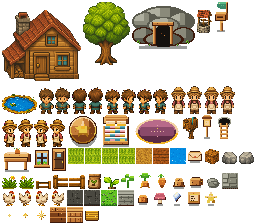
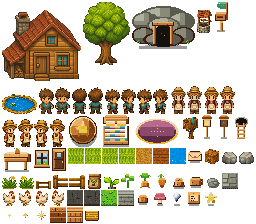
Make outdoor night darker and add path lanterns.

Changed region(s): [[0.8438, 0.5, 0.9688, 0.625]]

diff --git a/index.html b/index.html
@@ -328,12 +328,15 @@
     { at: 0.18, r: 255, g: 236, b: 210, a: 0.10 },
     { at: 0.28, r: 255, g: 255, b: 255, a: 0.00 },
     { at: 0.48, r: 255, g: 255, b: 255, a: 0.00 },
-    { at: 0.56, r: 255, g: 176, b: 72, a: 0.26 },
-    { at: 0.70, r: 220, g: 120, b: 64, a: 0.30 },
-    { at: 0.78, r: 88, g: 118, b: 186, a: 0.36 },
-    { at: 0.92, r: 72, g: 102, b: 176, a: 0.40 },
+    { at: 0.52, r: 255, g: 190, b: 96, a: 0.22 },
+    { at: 0.62, r: 240, g: 130, b: 64, a: 0.32 },
+    { at: 0.72, r: 160, g: 88, b: 90, a: 0.38 },
+    { at: 0.76, r: 48, g: 72, b: 160, a: 0.55 },
+    { at: 0.88, r: 32, g: 52, b: 140, a: 0.64 },
+    { at: 0.97, r: 40, g: 60, b: 132, a: 0.58 },
     { at: 1.00, r: 255, g: 214, b: 170, a: 0.20 }
   ];
+  var nightLayer = null;
   var found = { copper: false, mushroom: false, moonshard: false };
   var introSeen = false;
   var outroSeen = false;
@@ -667,7 +670,17 @@
       { kind: "weed", tx: 27, ty: 28 },
       { kind: "weed", tx: 40, ty: 32 },
       { kind: "weed", tx: 8, ty: 22 },
-      { kind: "weed", tx: 44, ty: 10 }
+      { kind: "weed", tx: 44, ty: 10 },
+      { kind: "lantern", tx: 13, ty: 31 },
+      { kind: "lantern", tx: 17, ty: 31 },
+      { kind: "lantern", tx: 15, ty: 33 },
+      { kind: "lantern", tx: 12, ty: 24 },
+      { kind: "lantern", tx: 15, ty: 20 },
+      { kind: "lantern", tx: 12, ty: 16 },
+      { kind: "lantern", tx: 18, ty: 8 },
+      { kind: "lantern", tx: 26, ty: 11 },
+      { kind: "lantern", tx: 32, ty: 8 },
+      { kind: "lantern", tx: 36, ty: 8 }
     ];
     return list.concat(scatterOverworldExtras(GROUND, list));
   }
@@ -2131,24 +2144,120 @@
   function currentTint() {
     var t = dayMs / DAY_MS;
     var tint = sampleTint(SKY_TINTS, t);
-    if (currentScene === "house" && t >= 0.72) {
-      return { r: 255, g: 200, b: 130, a: 0.24 };
+    if (currentScene === "house") {
+      if (t >= 0.72) return { r: 255, g: 200, b: 130, a: 0.24 };
+      if (t >= 0.56) return { r: 255, g: 196, b: 140, a: 0.16 };
+      return { r: 255, g: 236, b: 210, a: 0.04 };
     }
     if (currentScene === "mine") {
-      return { r: tint.r, g: tint.g, b: tint.b, a: tint.a * 0.45 };
+      return { r: 168, g: 152, b: 138, a: 0.22 };
     }
     return tint;
   }
 
+  function lanternGlowAmt() {
+    if (currentScene === "mine") return 0.55;
+    if (currentScene !== "overworld") return 0;
+    var t = dayMs / DAY_MS;
+    if (t < 0.62) return 0;
+    if (t < 0.75) return ((t - 0.62) / 0.13) * 0.55;
+    if (t < 0.97) return 1;
+    return Math.max(0, (1 - t) / 0.03);
+  }
+
+  function lanternIsLit() {
+    return lanternGlowAmt() > 0.12;
+  }
+
+  function getNightLayer() {
+    if (!nightLayer) {
+      nightLayer = document.createElement("canvas");
+      nightLayer.width = VIEW_W;
+      nightLayer.height = VIEW_H;
+    }
+    return nightLayer;
+  }
+
+  function forEachLantern(fn) {
+    var i, p;
+    for (i = 0; i < PROPS.length; i++) {
+      p = PROPS[i];
+      if (p.kind === "lantern") fn(p, i);
+    }
+  }
+
+  function drawLanternLights(g) {
+    var amt, i, p, sx, sy, flicker, rad, grd;
+    if (currentScene !== "overworld") return;
+    amt = lanternGlowAmt();
+    if (amt < 0.02) return;
+    g.save();
+    g.globalCompositeOperation = "lighter";
+    forEachLantern(function (p, i) {
+      sx = p.tx * TILE + 8 - camX;
+      sy = p.ty * TILE + 2 - camY;
+      if (sx < -48 || sy < -48 || sx > VIEW_W + 48 || sy > VIEW_H + 48) return;
+      flicker = 0.88 + Math.sin(tick / 140 + i * 1.7) * 0.12;
+      rad = 40 * amt * flicker;
+      grd = g.createRadialGradient(sx, sy, 2, sx, sy, rad);
+      grd.addColorStop(0, "rgba(255,210,110," + (0.42 * amt * flicker).toFixed(3) + ")");
+      grd.addColorStop(0.35, "rgba(240,160,60," + (0.18 * amt * flicker).toFixed(3) + ")");
+      grd.addColorStop(1, "rgba(80,40,20,0)");
+      g.fillStyle = grd;
+      g.beginPath();
+      g.arc(sx, sy, rad, 0, Math.PI * 2);
+      g.fill();
+    });
+    g.restore();
+  }
+
   function drawDayTint(g) {
     var tint = currentTint();
-    if (!tint || tint.a < 0.01) return;
+    var punch, layer, lg, amt, sx, sy, flicker, rad, grd;
+    punch = currentScene === "overworld" && lanternGlowAmt() > 0.02;
+    if (!tint || tint.a < 0.01) {
+      if (punch) drawLanternLights(g);
+      return;
+    }
+    if (!punch) {
+      g.save();
+      g.globalCompositeOperation = "multiply";
+      g.globalAlpha = tint.a;
+      g.fillStyle = "rgb(" + (tint.r | 0) + "," + (tint.g | 0) + "," + (tint.b | 0) + ")";
+      g.fillRect(0, 0, VIEW_W, VIEW_H);
+      g.restore();
+      return;
+    }
+    layer = getNightLayer();
+    lg = layer.getContext("2d");
+    lg.setTransform(1, 0, 0, 1, 0, 0);
+    lg.globalCompositeOperation = "source-over";
+    lg.globalAlpha = 1;
+    lg.clearRect(0, 0, VIEW_W, VIEW_H);
+    lg.fillStyle = "rgb(" + (tint.r | 0) + "," + (tint.g | 0) + "," + (tint.b | 0) + ")";
+    lg.fillRect(0, 0, VIEW_W, VIEW_H);
+    lg.globalCompositeOperation = "destination-out";
+    amt = lanternGlowAmt();
+    forEachLantern(function (p, i) {
+      sx = p.tx * TILE + 8 - camX;
+      sy = p.ty * TILE + 2 - camY;
+      flicker = 0.88 + Math.sin(tick / 140 + i * 1.7) * 0.12;
+      rad = 44 * amt * flicker;
+      grd = lg.createRadialGradient(sx, sy, 2, sx, sy, rad);
+      grd.addColorStop(0, "rgba(0,0,0,0.95)");
+      grd.addColorStop(0.4, "rgba(0,0,0,0.55)");
+      grd.addColorStop(1, "rgba(0,0,0,0)");
+      lg.fillStyle = grd;
+      lg.beginPath();
+      lg.arc(sx, sy, rad, 0, Math.PI * 2);
+      lg.fill();
+    });
     g.save();
     g.globalCompositeOperation = "multiply";
     g.globalAlpha = tint.a;
-    g.fillStyle = "rgb(" + (tint.r | 0) + "," + (tint.g | 0) + "," + (tint.b | 0) + ")";
-    g.fillRect(0, 0, VIEW_W, VIEW_H);
+    g.drawImage(layer, 0, 0);
     g.restore();
+    drawLanternLights(g);
   }
 
   function openDialogue(title, lines) {
@@ -2945,10 +3054,14 @@
     } else if (p.kind === "cave") {
       Assets.draw(g, "cave", x, y);
     } else if (p.kind === "lantern") {
-      var flicker = ((tick / 200) | 0) % 2;
-      g.fillStyle = flicker ? "rgba(240,192,96,0.18)" : "rgba(240,192,96,0.10)";
-      g.fillRect(x - 12, y - 16, 40, 40);
-      Assets.draw(g, "lantern", x, y);
+      var lit = lanternIsLit();
+      var flicker;
+      if (lit) {
+        flicker = 0.10 + 0.08 * (0.5 + 0.5 * Math.sin(tick / 140 + p.tx * 0.8));
+        g.fillStyle = "rgba(240,192,96," + flicker.toFixed(3) + ")";
+        g.fillRect(x - 12, y - 16, 40, 40);
+      }
+      Assets.draw(g, lit ? "lantern" : "lanternOff", x, y);
     } else if (p.kind === "ladder") {
       Assets.draw(g, "ladder", x, y);
     } else if (p.kind === "note") {

diff --git a/tools/export-assets.py b/tools/export-assets.py
@@ -1241,6 +1241,25 @@ def gen_lantern():
     return g
 
 
+def gen_lantern_off():
+    """Unlit path post: same silhouette, dark glass instead of a flame."""
+    g = Pix(16, 24)
+    g.fill(5, 22, 6, 2, C["shadow"])
+    g.fill(7, 12, 2, 10, C["woodMid"])
+    g.fill(7, 12, 1, 10, C["woodHi"])
+    g.fill(8, 12, 1, 10, C["woodSh"])
+    g.fill(3, 2, 10, 2, C["woodSh"])
+    g.fill(4, 1, 8, 1, C["woodMid"])
+    g.fill(5, 0, 6, 1, C["woodHi"])
+    g.fill(4, 4, 8, 8, C["woodOut"])
+    g.fill(5, 5, 6, 6, C["woodSh"])
+    g.fill(6, 6, 4, 4, C["stoneSh"])
+    g.px(7, 7, C["stone"])
+    g.fill(4, 4, 8, 1, C["woodHi"])
+    g.fill(4, 11, 8, 1, C["woodSh"])
+    return g
+
+
 def gen_ladder():
     """Hole in the stone floor with a wooden ladder down."""
     g = Pix(16, 24)
@@ -1830,6 +1849,7 @@ GENERATORS = {
     "wall": gen_wall,
     "cave": gen_cave,
     "lantern": gen_lantern,
+    "lanternOff": gen_lantern_off,
     "ladder": gen_ladder,
     "copper": gen_copper,
     "mushroom": gen_mushroom,
@@ -1902,6 +1922,7 @@ def builtin_sprites():
         {"id": "wall", "file": "tiles/wall.png", "w": 16, "h": 16, "frames": 1, "anchor": [0, 0], "ox": 0, "oy": 0, "generated": True},
         {"id": "cave", "file": "props/cave.png", "w": 64, "h": 48, "frames": 1, "anchor": [0, 0], "ox": 0, "oy": -16, "generated": True},
         {"id": "lantern", "file": "props/lantern.png", "w": 16, "h": 24, "frames": 1, "anchor": [0, 0], "ox": 0, "oy": -8, "generated": True},
+        {"id": "lanternOff", "file": "props/lantern-off.png", "w": 16, "h": 24, "frames": 1, "anchor": [0, 0], "ox": 0, "oy": -8, "generated": True},
         {"id": "ladder", "file": "props/ladder.png", "w": 16, "h": 24, "frames": 1, "anchor": [0, 0], "ox": 0, "oy": -8, "generated": True},
         {"id": "copper", "file": "ui/copper.png", "w": 16, "h": 16, "frames": 1, "anchor": [0, 0], "ox": 0, "oy": 0, "generated": True},
         {"id": "mushroom", "file": "ui/mushroom.png", "w": 16, "h": 16, "frames": 1, "anchor": [0, 0], "ox": 0, "oy": 0, "generated": True},

diff --git a/README.md b/README.md
@@ -27,7 +27,7 @@ On iPhone, tap the tiny wood **FS** plaque (top-right) so the farm fills the Saf
 - A wood star on the HUD opens your stars. The first time you earn one, a big star card pops in the middle of the farm. Tap OK to keep going.
 - A wood book next to the star is your job list. Tap it for one line, like BRING A MUSHROOM TO THE NEIGHBOR.
 - Jobs: bring the neighbor a cave mushroom, leave wood at Nim's note after you read the mine letter, then take a moon shard inside the house.
-- The wood clock on the right counts real days. Morning turns to afternoon, evening, then night (a cool blue over the farm; the house stays lamplit). A full day is about two and a half minutes. Time pauses while you read a letter, open stars, watch a new star unlock, and when the tab is hidden.
+- The wood clock on the right counts real days. Morning turns to afternoon, evening (warm dusk), then night (a darker blue over the farm, with path lanterns lighting the road; the house stays lamplit). A full day is about two and a half minutes. Time pauses while you read a letter, open stars, watch a new star unlock, and when the tab is hidden.
 - Inside the house, tap the bed to sleep. The room fades, then you wake next to the bed on the next morning. Crops and chopped trees keep growing while you rest. The farm remembers your day, bag, gold, plants, and where you stood if you close the page.
 - The job book has a small **Start over** button. It asks "Really start over?" Tap Yes to wipe the save and reload a fresh farm; tap No to keep playing.
 
@@ -42,7 +42,7 @@ assets/
   atlas.png         packed sheet the game loads
   atlas.json        same frame rects (handy for tools)
   tiles/            16×16 ground (grass, dirt, till, water, hill, stone, wall, wood floor, interior wall)
-  props/            house, tree, stump, well, mailbox, mailbox-up, crate, pond, rocks, weeds, fences, cave, lantern, ladder, note, bed, table, rug, window, doormat, door
+  props/            house, tree, stump, well, mailbox, mailbox-up, crate, pond, rocks, weeds, fences, cave, lantern, lantern-off, ladder, note, bed, table, rug, window, doormat, door
   actors/           player, neighbor, chicken (one PNG per facing/frame)
   ui/               seed packet, sprout, young crop, ready crop, veggie, wood, stone, copper, mushroom, moon shard, star, star badge, sparkle, letter
 tools/
